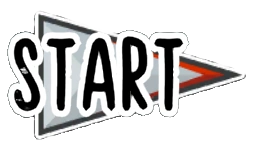
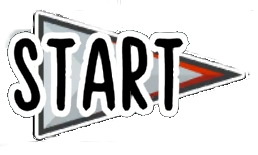
cleaned structure

diff --git a/src/App.tsx b/src/App.tsx
@@ -1,11 +1,11 @@
 import { Route, Routes } from "react-router-dom";
-import HomePage from "./pages/homePage";
-import GameTypePage from "./pages/gameTypePage";
-import ChosenGameTypePage from "./pages/chosenGameTypePage";
-import LobbyPage from "./pages/lobbyPage";
-import PrivatePage from "./pages/privatePage";
+import HomePage from "./pages/HomePage";
+import GameTypePage from "./pages/GameTypePage";
+import HostPage from "./pages/HostPage";
+import LobbyPage from "./pages/LobbyPage";
+import PrivatePage from "./pages/PrivatePage";
 import {useState} from "react";
-import {PlayGame} from "./pages/gamePlay";
+import {PlayGame} from "./pages/GamePlay";
 
 export type Game = {
   gameCode: string;
@@ -13,7 +13,6 @@ export type Game = {
   numberOfImpostors: number;
   players: Player[];
   gameID: number;
-  sabotages: Sabotage[];
   map: number[][];
 };
 
@@ -22,12 +21,6 @@ export type Player = {
   username: string;
   position: { x: number; y: number };
   role: string;
-};
-
-export type Sabotage = {
-    id: number;
-    title: string;
-    description: string;
 };
 
 export default function App() {
@@ -44,9 +37,10 @@ export default function App() {
       <Route path="/gameType" element={<GameTypePage />} />
       <Route
         path="/host"
-        element={<ChosenGameTypePage setGame={gameSetup} />}
+        element={<HostPage setGame={gameSetup} />}
       />
-      <Route path="/join" element={<PrivatePage setGame={gameSetup} />} />
+      <Route path="/join" element={<PrivatePage/>}
+      />
       <Route
         path="/lobby/:gameCode"
         element={<LobbyPage game={game} onChangeSetGame={gameSetup} />}

diff --git a/src/pages/LobbyPage.tsx b/src/pages/LobbyPage.tsx
@@ -3,7 +3,7 @@ import { useParams, useNavigate } from "react-router-dom";
 import { Game } from "../App";
 import SockJS from "sockjs-client";
 import Stomp from "stompjs";
-import "../css/lobbyPage.css"
+import "../css/LobbyPage.css"
 
 type Props = {
   game: Game;
@@ -122,7 +122,7 @@ export default function LobbyPage({ game, onChangeSetGame }: Props) {
                 disabled={!isGameReadyToStart}
                 className="start-game-button"
             >
-              <img src="/public/images/img.png" alt="Start Game" />
+              <img src="/public/images/start.png" alt="Start Game" />
             </button>
           </div>
         </div>

diff --git a/src/pages/HostPage.tsx b/src/pages/HostPage.tsx
@@ -1,7 +1,7 @@
 import React, {useEffect, useState} from "react";
 import {Link, useNavigate} from "react-router-dom";
 import {Game} from "../App";
-import "../css/chosenGameTypePage.css";
+import "../css/HostPage.css";
 
 type Props = {
   setGame: (game: Game) => void;
@@ -13,7 +13,7 @@ const playSound = () => {
   audio.play();
 };
 
-export default function ChosenGameTypePage({
+export default function HostPage({
                                              setGame,}: Props) {
   const navigate = useNavigate();
   const [username, setUsername] = useState("");

diff --git a/src/pages/PrivatePage.tsx b/src/pages/PrivatePage.tsx
@@ -2,7 +2,7 @@ import React, { useState, useEffect } from "react";
 import { Link, useNavigate } from "react-router-dom";
 import SockJS from "sockjs-client";
 import Stomp from "stompjs";
-import "../css/privatePage.css";
+import "../css/PrivatePage.css";
 
 export default function PrivatePage() {
   const navigate = useNavigate();

diff --git a/src/pages/GameMap.tsx b/src/pages/GameMap.tsx
@@ -1,6 +1,6 @@
 import React, { useState } from 'react';
-import "../css/gameMap.css";
-import "../css/Popup.css";
+import "../css/GameMap.css";
+import "../css/CardSwipe.css";
 import CardSwipe from './CardSwipe';
 
 interface Player {

diff --git a/src/pages/HomePage.tsx b/src/pages/HomePage.tsx
@@ -1,6 +1,6 @@
 import { Link } from "react-router-dom";
 import { useEffect, useRef } from "react";
-import '../css/homePage.css';
+import '../css/HomePage.css';
 
 const backgroundMusic = new Audio('/public/sounds/theme.mp3');
 

diff --git a/src/pages/CardSwipe.tsx b/src/pages/CardSwipe.tsx
@@ -1,5 +1,5 @@
 import React, { useState, useEffect, useRef } from 'react';
-import "../css/Popup.css";
+import "../css/CardSwipe.css";
 
 const CardSwipe = ({ onClose }) => {
     const [active, setActive] = useState(false);

diff --git a/src/pages/GameTypePage.tsx b/src/pages/GameTypePage.tsx
@@ -1,6 +1,6 @@
 import { Link } from "react-router-dom";
 import React from "react";
-import "../css/gameTypePage.css"
+import "../css/GameTypePage.css"
 
 export default function GameTypePage() {
 

diff --git a/src/pages/GamePlay.tsx b/src/pages/GamePlay.tsx
@@ -1,4 +1,4 @@
-import GameMap from "./gameMap";
+import GameMap from "./GameMap";
 import {useEffect, useState} from "react";
 import Stomp from "stompjs";
 import {Game} from "../App";
